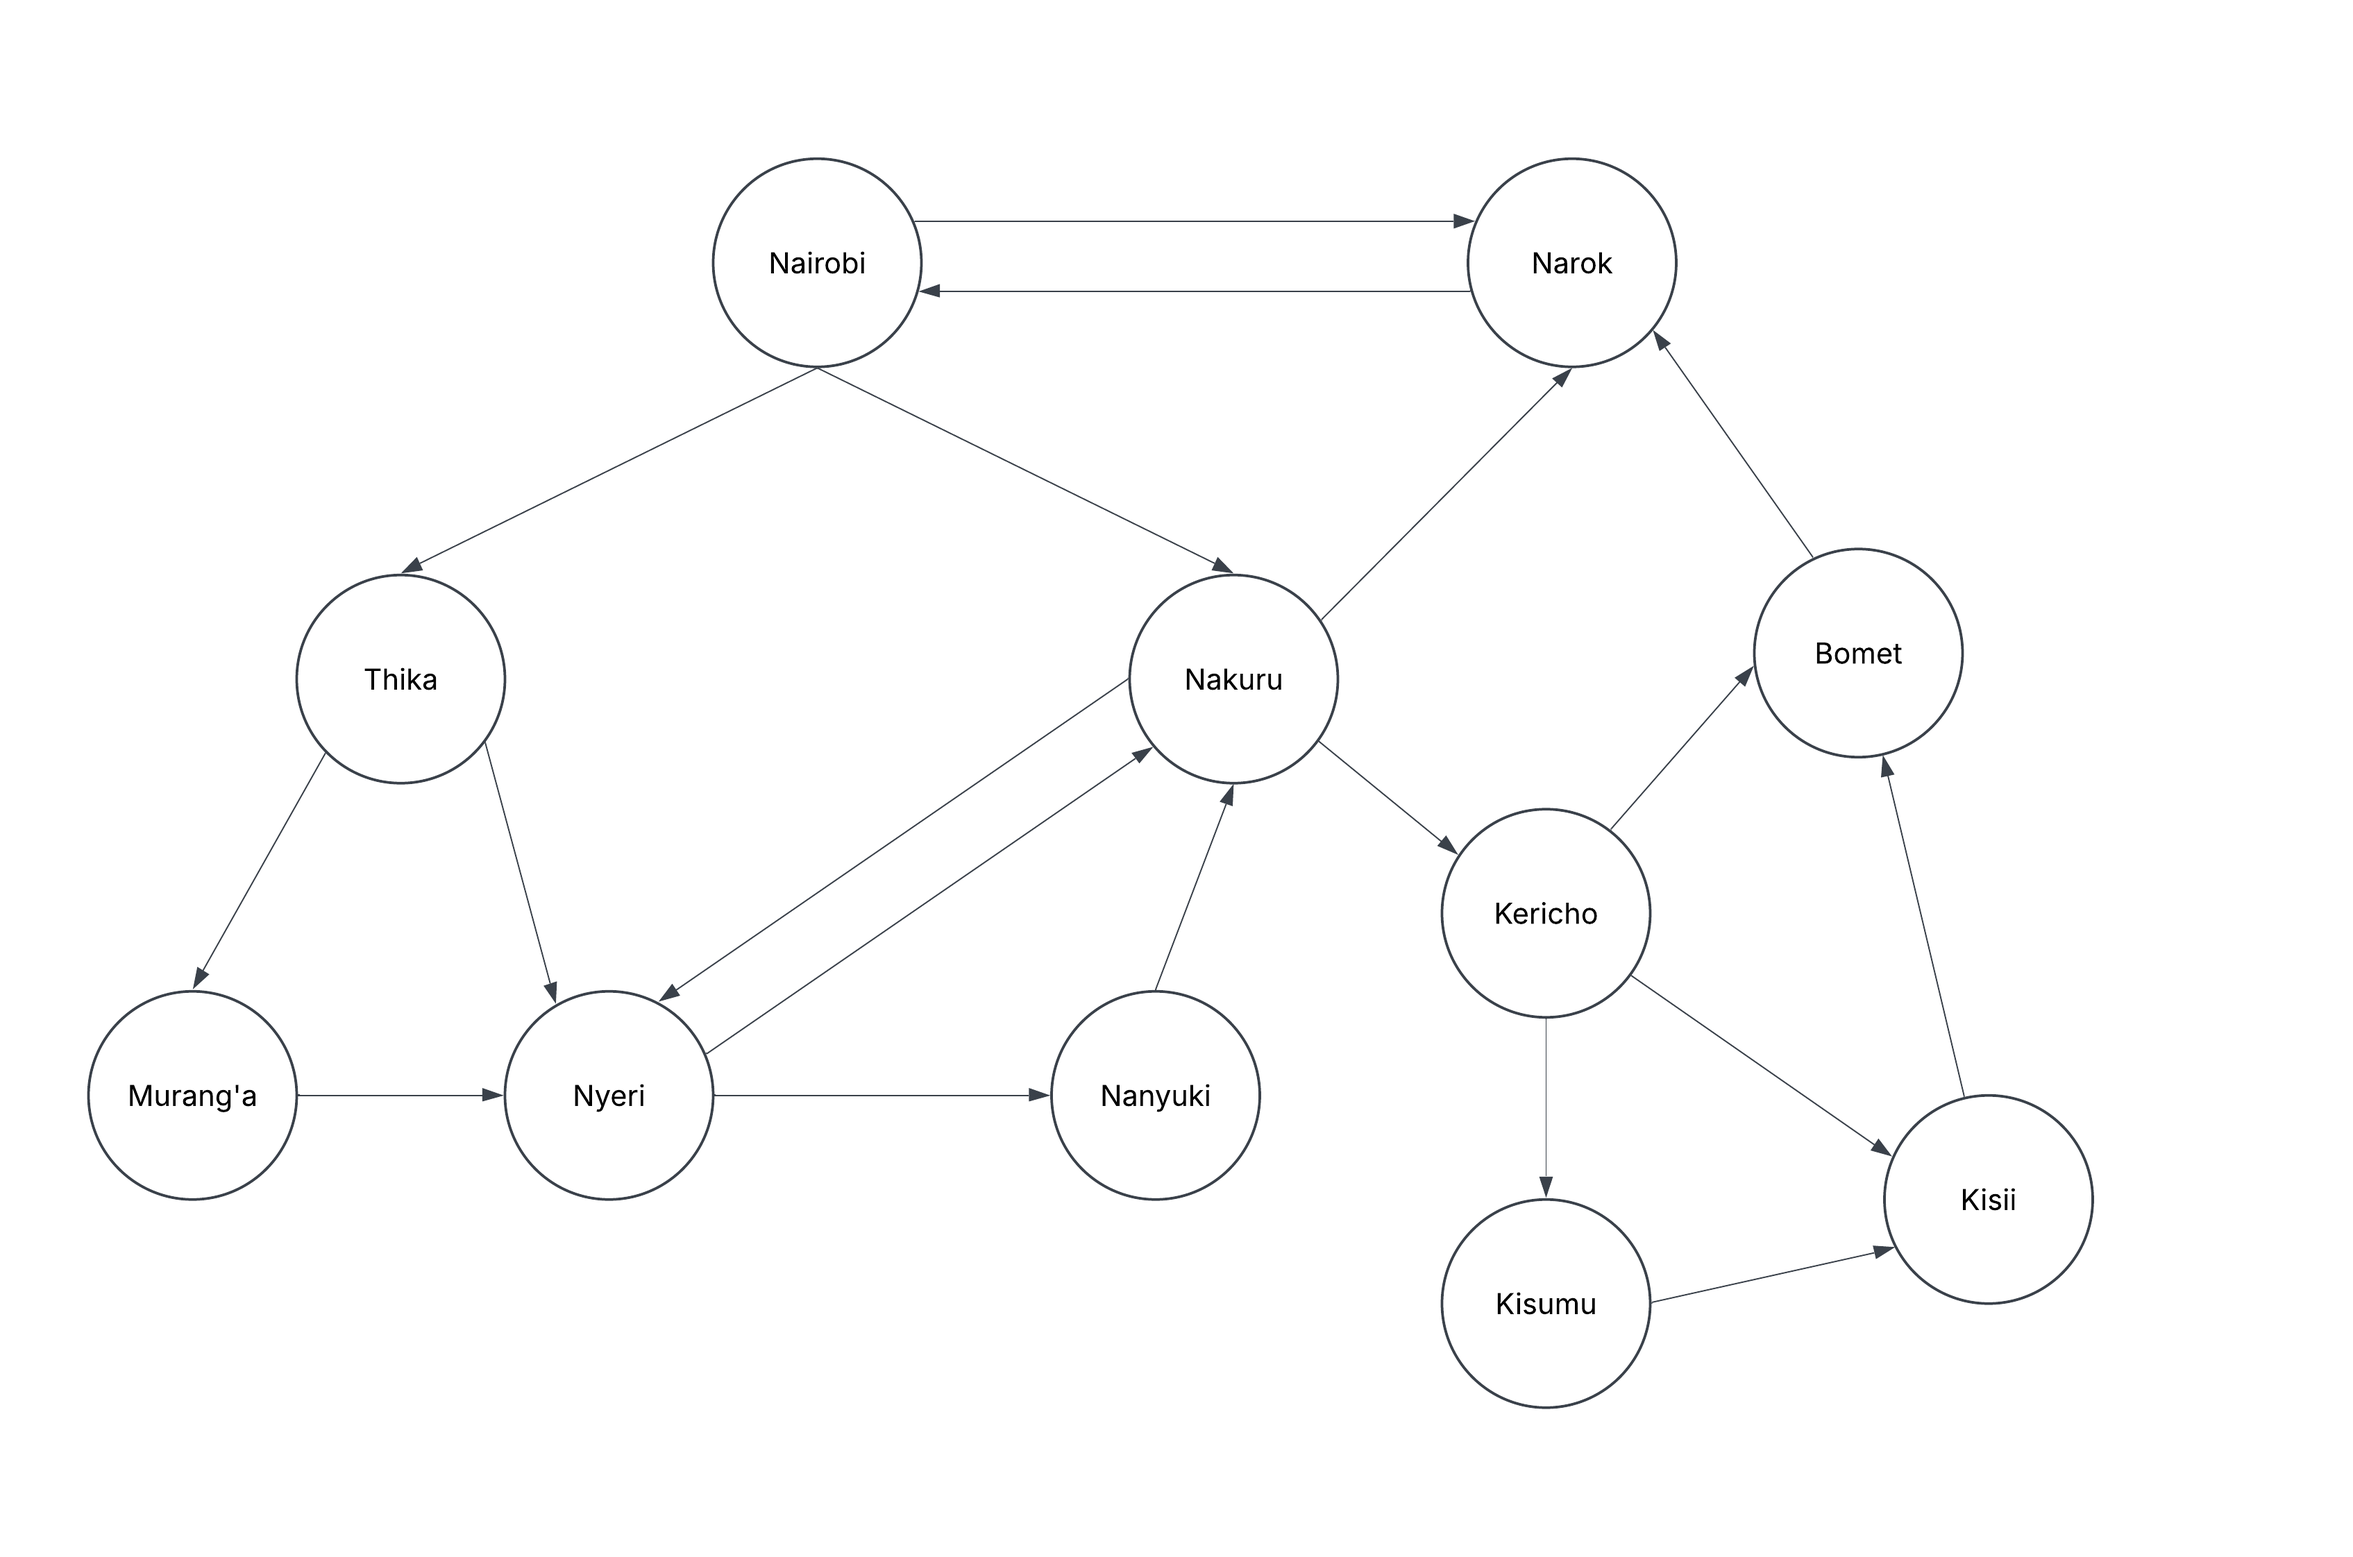
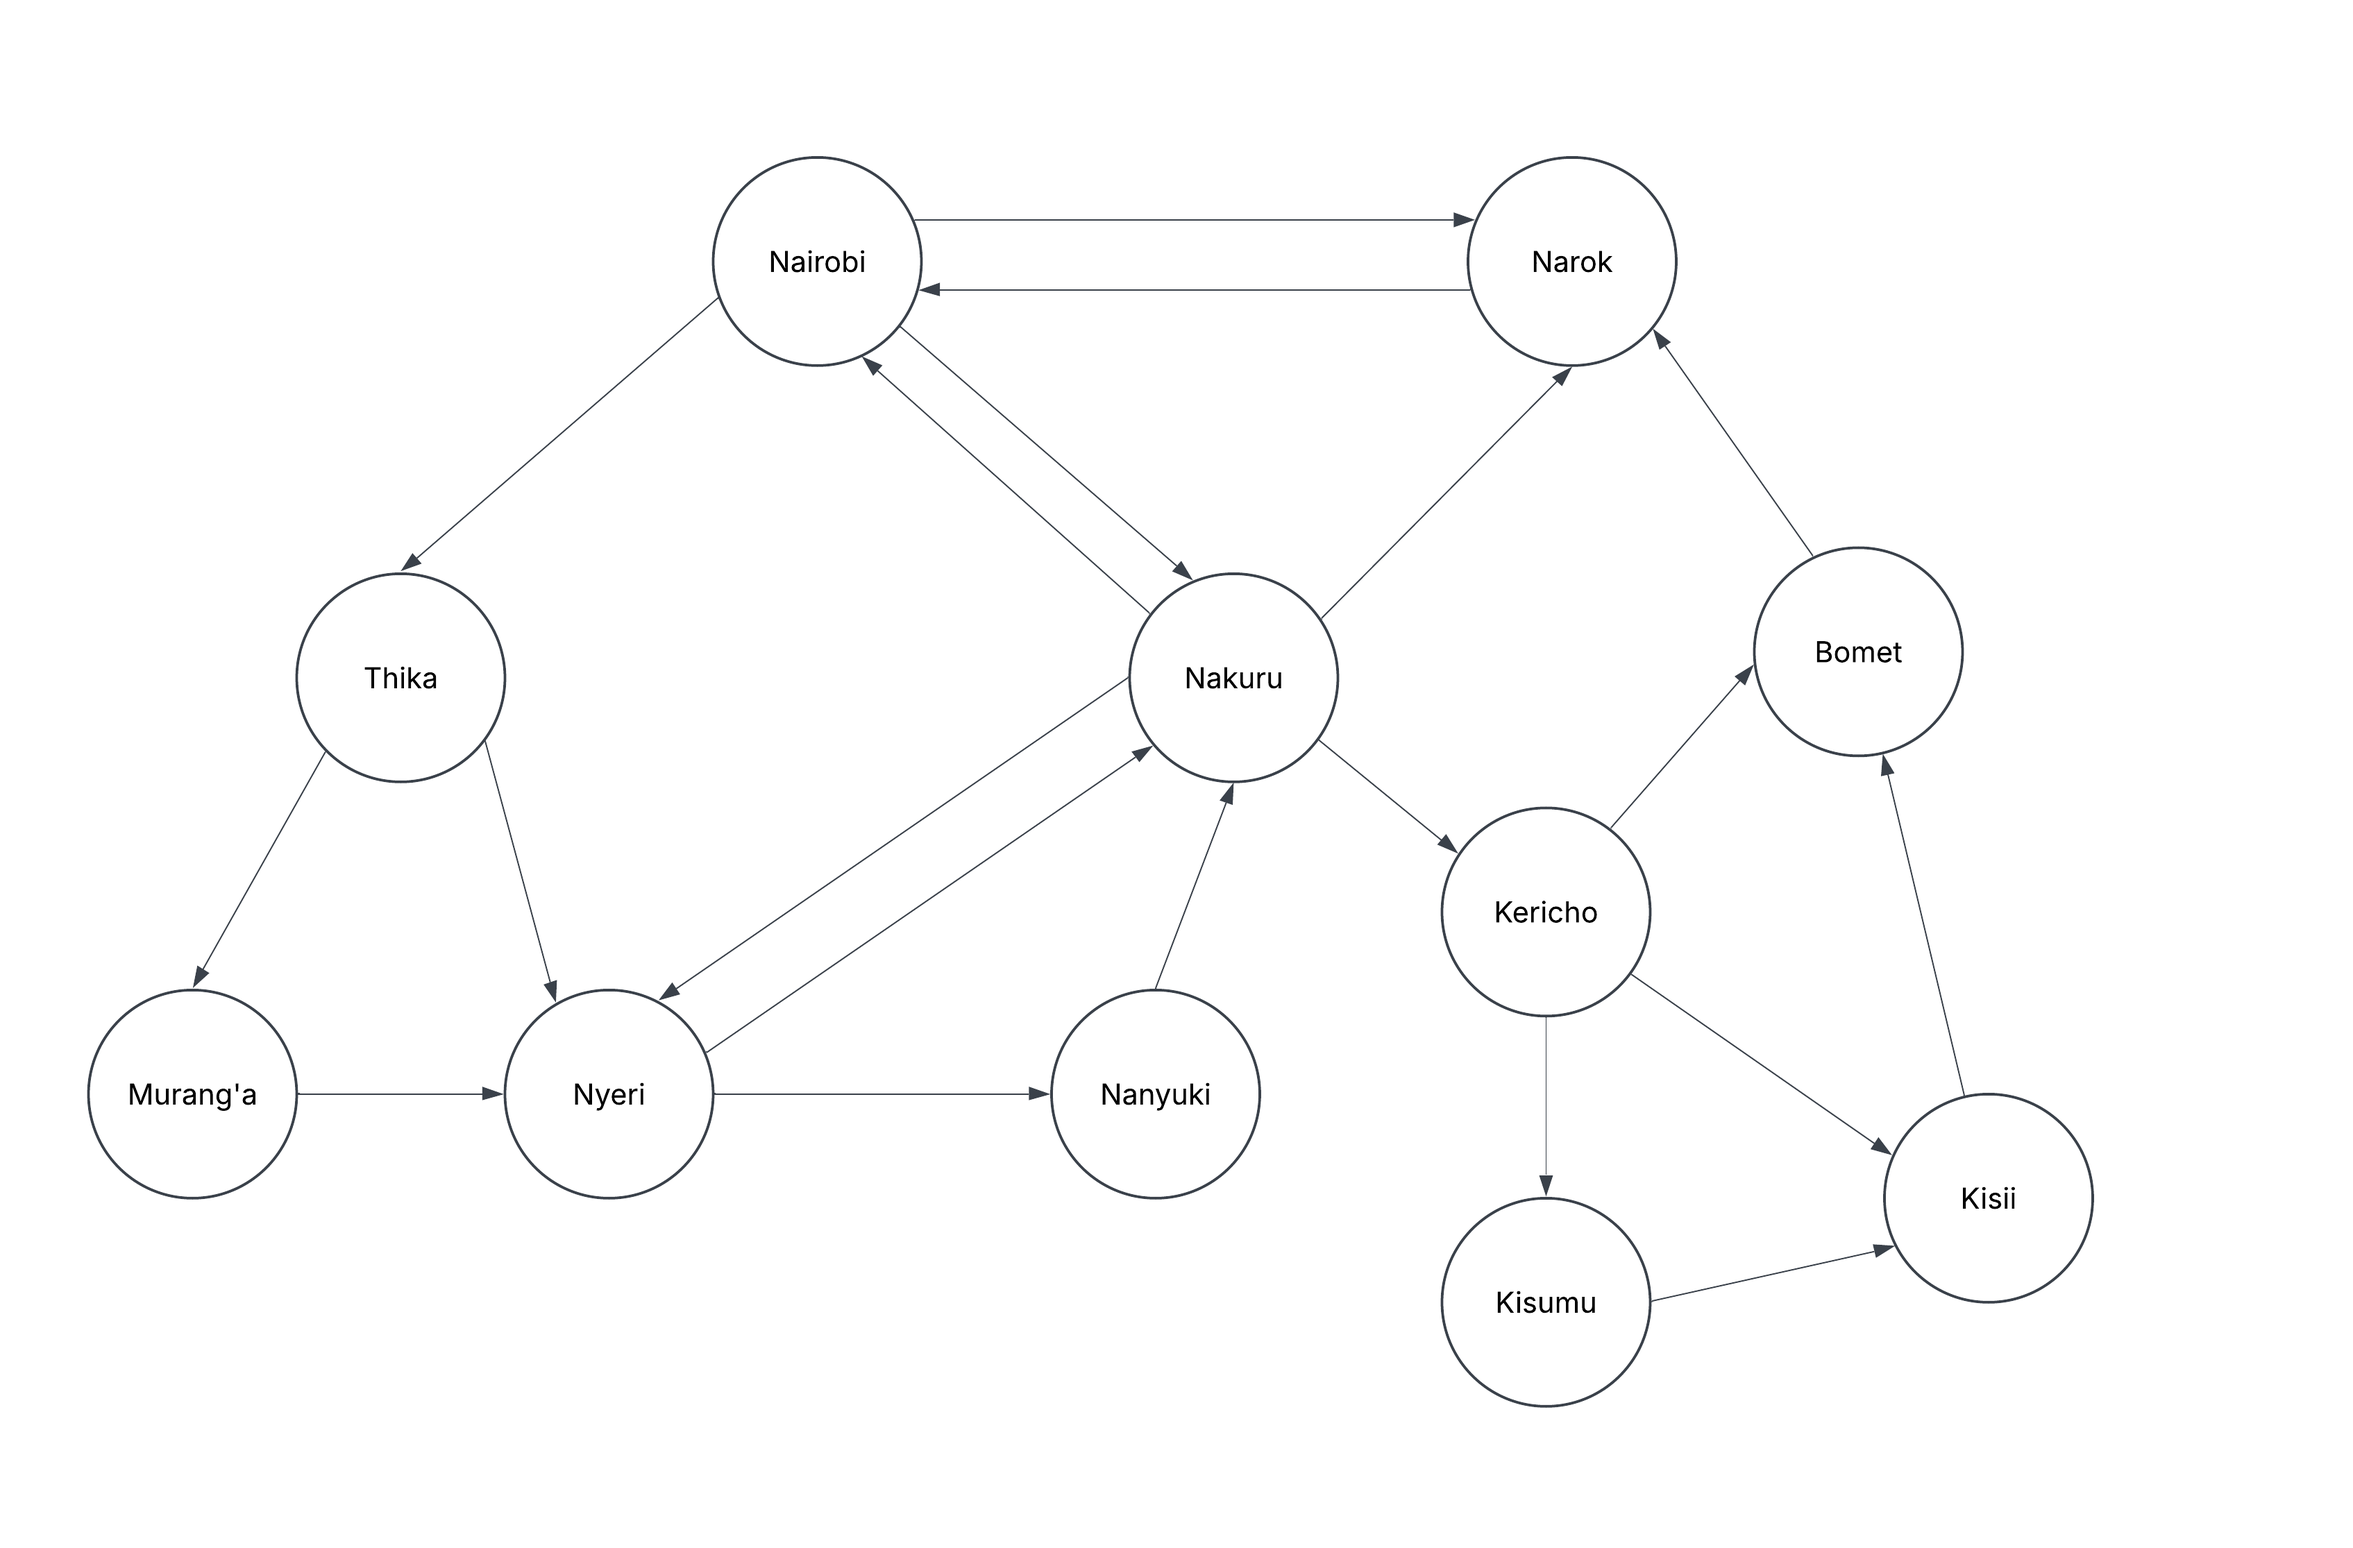
add team photo and cost graph

diff --git a/design.md b/design.md
@@ -31,3 +31,10 @@
 ### Using distance between towns as the path cost function, determine the optimal path the trailer can take from Nairobi to Kisumu. Calculate the distance between towns using this Google Maps search feature.
 
 #### Cost Graph
+![Cost Graph](AI_Q2_CostGraph.png)
+
+#### Calculations
+
+
+## Team Photo
+![Team Photo](team_photo_2.png)
